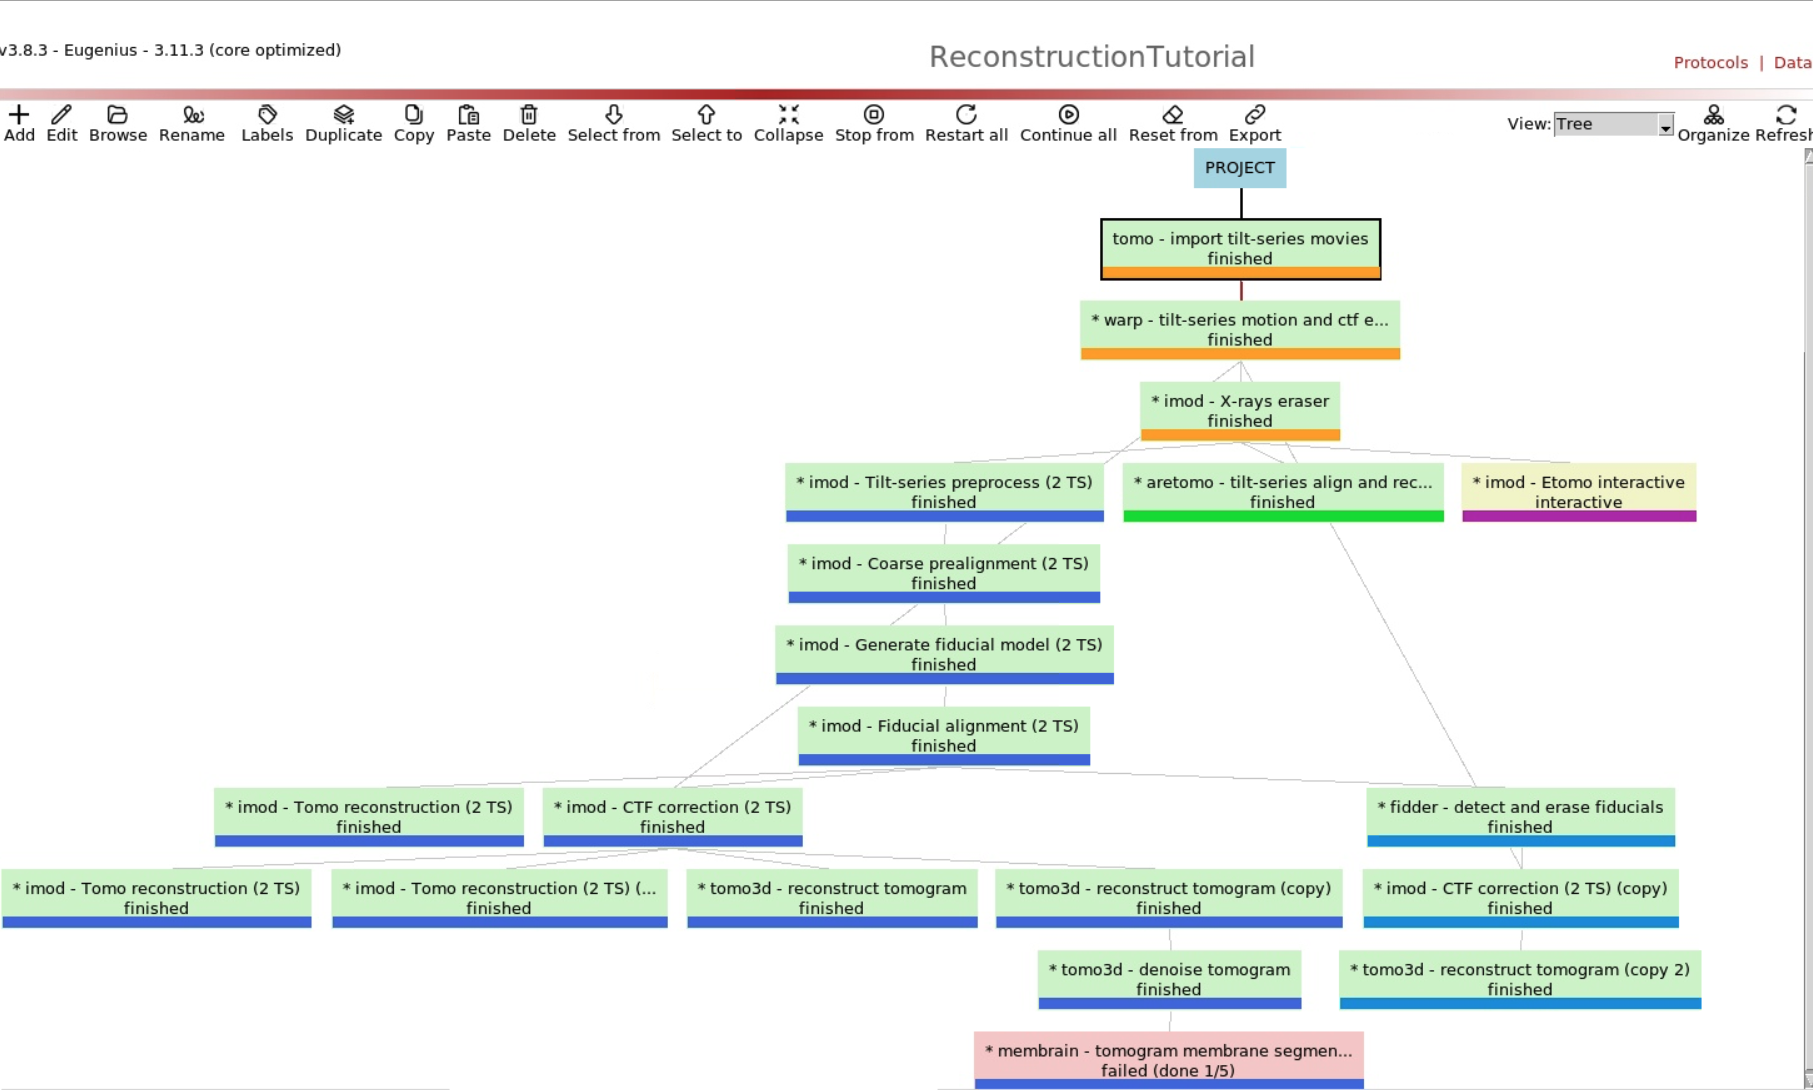
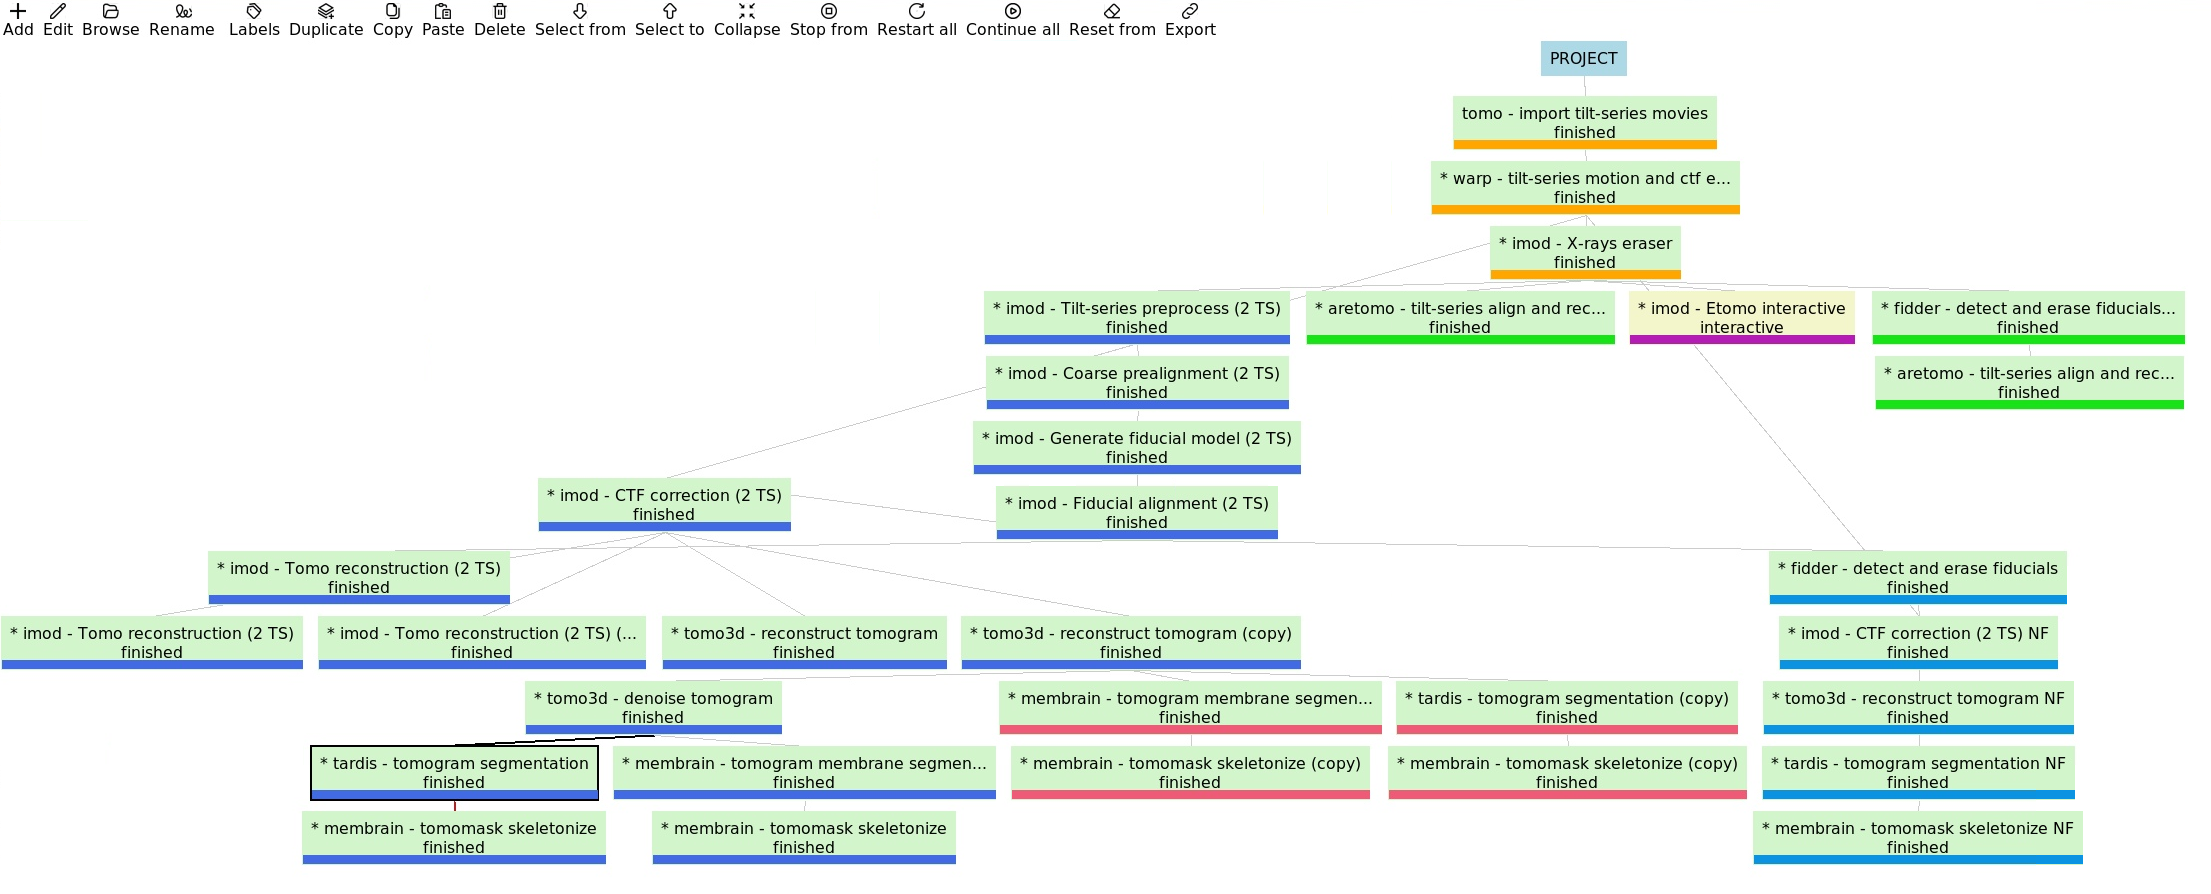
new figures

diff --git a/Dataset_01_Fiducials_Exosomes/automatic-imod.md b/Dataset_01_Fiducials_Exosomes/automatic-imod.md
@@ -2,7 +2,7 @@
 **Part II - Quick assessment: Automated Tilt Series Alignment and Tomogram reconstruction using IMOD**
 
 **CryoEM Team** 🔵 **Scipion Team** 
-Last update: 11 February 2026, 22:00
+Last update: 04 February 2026, 19:32
 
 **keywords:** ["cryo-ET", "Scipion", "IMOD", "Etomo", "AreTomo", "reconstruction"]
 
@@ -14,6 +14,14 @@ Last update: 11 February 2026, 22:00
 - **warp – tilt-series motion and ctf estimation** finished
 - **imod – x-ray eraser** finished, hot pixels removed
 - **tomoviewer – tilt series curation** finished & 2/5 tilt series selected
+
+Now we connect the pre-processing to tilt-series alignment and tomogram reconstruction. We will start with the blue track.
+<table>
+<tr>
+<td align="center">
+<img src="Figures/0-Workflow.png" width="100%"<br>
+<sub>Workflow covered in this tutorial</sub>
+</td>
 
 ## 🔵 The IMOD workflow
 
@@ -330,7 +338,7 @@ For this tutorial, keep all parameters at their default values.
   </tr>
 </table>
 
-## Final tomogram reconstruction with tomo3D
+## 🔴 Final tomogram reconstruction with tomo3D
 
 **Reference**: [J.I. Agulleiro 2011](https://doi.org/10.1093/bioinformatics/btq692)[J.I. Agulleiro 2015](https://doi.org/10.1016/j.jsb.2014.11.009)
 **Plugin**: [scipion-em-tomo3d](https://github.com/scipion-em/scipion-em-tomo3d)
@@ -393,7 +401,7 @@ The reconstructed volume can be inspected via **Analyze results**. Alternatively
   </tr>
 </table>
 
-## Tomogram denoising with Tomo3D (for a segmentation friendly volume)
+## 🔴 Tomogram denoising with Tomo3D (for a segmentation friendly volume)
 
 For segmentation, a reconstructed tomogram is often still very noisy. Applying denoising can improve the visibility of membranes and cellular features and can make manual or ML-based segmentation more robust.
 
@@ -429,7 +437,7 @@ Look for artifacts: ringing, over-smoothing, patchy textures, hallucinated conti
 
 > **Note:** Denoising alters image statistics. Use it for **visualization and segmentation**, but keep a **minimally processed reference tomogram** for quantitative workflows (e.g., STA).
 
-## Tomogram filtering in IMOD (optional)
+## 🔵 Tomogram filtering in IMOD (optional)
 
 In addition to denoising, simple filters that can further improve interpretability for **visual inspection** and **segmentation** (e.g., emphasizing membranes or suppressing high-frequency noise). Filtering is optional and should be used conservatively.
 
@@ -440,13 +448,21 @@ In addition to denoising, simple filters that can further improve interpretabili
 
 > **Legacy:** For a step-by-step example in IMOD, see the separate protocol by **Clara Feldmann**, which documents the filter settings (**filter type + parameters**) used in our workflow: [legacy/filtering.pdf](legacy/filtering.pdf)
 
-## Tomogram Segmentation
-We have different options for Segmentation, e.g. Dynamo, Tardis or Membrain. In Scipion we will use Tardis and Membrain as example tools.
+## 🔴 Tomogram Segmentation
+Segmentation turns a tomogram into a label volume (mask) that can be used for quality check, quantification, and downstream analysis. In this tutorial we show two example workflows in Scipion:
+* Tardis: membrane segmentation (fast, robust starting point)
+* Membrain: membrane segmentation with a different model/behavior (useful for comparison / sometimes cleaner membranes)
 
-### Tardis Segmentation + Membrain Skeletonize
-Goal: You start with denoised tomograms and end with: (1) SetOfTomoMasks: one 3D segmentation mask per tomogram and (2) Set of Meshes: 3D surface models derived from the masks (great for visualization)
+From either segmentation mask we can generate surface meshes using MembrainSkeletonize (great for figures and 3D visualization).
+> Rule of thumb: quantify on `masks`, make figures with `meshes`.
 
-> Rule of thumb:** quantify on **masks**, make figures with **meshes**.
+### Workflow A: Tardis Segmentation (+ Membrain Skeletonize)
+**Your input**
+Input: denoised tomograms
+Target here: membranes only (binary segmentation)
+
+**Create the Mask**
+Output: SetOfTomoMasks (one 3D mask per tomogram), usually binary: 0 = background, 1 = membrane
 
 <table>
   <tr>
@@ -475,29 +491,73 @@ Goal: You start with denoised tomograms and end with: (1) SetOfTomoMasks: one 3D
   </tr>
 </table>
 
-**Output 1 `SetOfTomoMasks` (1 per tomogram):**  
-A **3D label volume** aligned to each tomogram (same grid/size ideally).  
-- one mask corresponds to one tomogram
-- binary mask where each voxel has value 0/1: `0=background`, `1=target` (or multi-class integers)  
-- used for: overlay QC + measurements + downstream processing
+**Convert the Mask into a SetOfMeshes**
+Meshes are surface models derived from masks; meshes are used for: 3D visualization + figure rendering + qualitative inspection
+To create the mesh, we run MembrainSkeletonize.
 
-**Output 2 `Set of Meshes`:**  --> this cannot be visualized from Tardis. We run Membrain Skeletonize to get the Mesh.
-**Surface models** generated from the masks (triangulated geometry, e.g. `.ply/.obj/.stl`, tool-dependent).  
-- used for: 3D visualization/figures + surface metrics
-
-## Visualization in ChimeraX
-### Let's open the segmentation
+### Visualization of the Mesh in ChimeraX
+1. Open the segmentation as shown in the video.
 <img src="Movies/17-VisualizeSegInChimeraX.gif" width="95%">
 
-# Upcoming Next
-## Overlay the segmentation with the tomogram
-## How Segmentation looks like when you do not use denoising
+2. Overlay the segmentation with the tomogram in ChimeraX
+(note: overlay does currently not work properly)
 
-# New Page
-## A few tricks to improve your results?
-Let's go through a few cosmetic steps now that you could add to your workflow.
+3. Assess the quality of your mesh
+- Does the mesh hug the membrane location (not offset)?
+- Do you see holes / spikes / “shrink-wrapping” artifacts?
+- Mesh density: too dense = heavy files; too sparse = blocky surfaces
+- Do you have to much noise?
 
-### Fidder - detects and erases fiducials
+### Workflow B: Membrain + Membrain Skeletonize
+It’s good practice to try a second method for comparison / sanity check. Since we are segmenting membranes, we will use Membrain as an alternative model to Tardis.
+
+> In some datasets Membrain yields smoother / more continuous membrane masks than Tardis. Always verify by overlay QC.
+
+**Create the mask**
+Input: Input: denoised tomograms
+Output: SetOfTomoMasks (same concept as above, membrain also produces a mask per tomogram)
+
+Here the output is binary, we can proceed directly to skeletonize/mesh generation
+convert mask → mesh for ChimeraX/figures.
+
+### Quick comparison: Tardis vs Membrain
+Tardis: often fast + solid baseline segmentation for membranes; good first pass.
+Membrain: sometimes produces smoother / more continuous membrane masks; good alternative when Tardis struggles.
+Best practice: run both on 1–2 tomograms, compare overlays, then decide what you’ll use for the whole dataset.
+
+<table width="100%">
+  <tr>
+    <td align="center" width="50%">
+      <img src="Figures/18-Membrain_Denoised.png" width="95%"><br>
+      <sub>Membrain (denoised)</sub>
+    </td>
+    <td align="center" width="50%">
+      <img src="Figures/18-Tardis_Denoise.png" width="95%"><br>
+      <sub>Tardis (denoised)</sub>
+    </td>
+  </tr>
+</table>
+
+
+
+# A few thoughts:
+## 🪼 Why denoising is important (even if this example looks similar)
+<img src="Figures/14_Denoise_orNotDenoise_Workflow.png" width="95%">
+Below we compare Membrain segmentation on (A) a raw tomogram vs. (B) the denoised version.
+In this high-contrast example, you may think: Ha! There is barely a difference!
+That can happen when membranes are already very clear and SNR is decent.
+So why denoise at all? Because in many cellular tomograms denoising can make a big difference by:
+Stabilizing segmentation in low-SNR regions (thin membranes, crowded cytoplasm)
+Reducing false positives from noise, ice contamination, fringes, or reconstruction artifacts
+Improving continuity of membrane masks (fewer breaks → nicer meshes)
+Reducing parameter sensitivity (thresholds/model confidence become less “twitchy”)
+Rule of thumb:
+If you need to fight the segmentation parameters a lot, denoising usually helps (or you need a different model).
+We’ll revisit this with true cellular samples in the next tutorial, where the effect is typically much more obvious.
+
+
+## Can I get rid of the Fiducials
+### 🪼 Fidder - detects and erases fiducials
 
 **Reference**: [TeamTomo](https://github.com/teamtomo/fidder)
 **Plugin**: [scipion-em-fidder](https://github.com/scipion-em/scipion-em-fidder)
@@ -505,16 +565,93 @@ Let's go through a few cosmetic steps now that you could add to your workflow.
 Fiducials markers were used to tilt series, due to their high contrast. However, the strong signal of the gold beads can introduce artifacts in the reconstruction. Specially, the artifacts can complicate the tomogram interpretation and introduce errors in the use of image processing algorithms as: Picking and sutomogram averaging. These effects can be avoided by erasingthe fiducial markers in the images. To do that the protocol `fidder - detect and erase fiducials` can be used. Fidder uses a U-net (deep learning) trained at 8A/px to segment the fiducials. In a second step, the segmented fiducial markers are substituted with white noise matching the local mean and global standard deviation of the image. Fidder only presents a free parameter, the threshold, which aims to determine probability threshold for deteting the gold beads. An strict value of 0.9 should work with this data set. The figures
 
 ** When to do it?**
+It is possible to get rid of fiducials early and late in the workflow. In our pipeline, we do it after `imod - fiducial alignment` has finished, just before the first reconstruction.
+<img src="Figures/Fidder_1_Workflow1.png" width="50%">
+<sub>Removing Fiducials prior to reconstruction</sub>
 
 To execute the protocol the next paramaters are used:
 - *Input:*
   - **Tilt series**: `imod - Fiducial alignment`
   - **Threshold**: 0.9
+<table>
+  <tr>
+    <th align="center" colspan="2">
+      Input (Fidder): aligned tilt series + threshold
+    </th>
+  </tr>
+  <tr>
+    <td align="center" colspan="2">
+      <img src="Figures/Fidder.png" width="60%"><br>
+      <sub>Input parameters for Fidder</sub>
+    </td>
+  </tr>
 
-<img src="Figures/Fidder.png" width="50%">
-<sub>Input parameters for Fidder</sub>
+  <tr>
+    <th align="center">Output 1 – Tilt series after fiducials are erased</th>
+    <th align="center">Output 2 – Tomogram reconstructed from the erased tilt series</th>
+  </tr>
+  <tr>
+    <td align="center" width="50%">
+      <img src="Movies/Fidder_onAlignedTS.gif" width="95%"><br>
+      <sub>Aligned tilt series (fiducials removed)</sub>
+    </td>
+    <td align="center" width="50%">
+      <img src="Movies/Fidder_Tomo3D.gif" width="95%"><br>
+      <sub>Tomogram after reconstruction</sub>
+    </td>
+  </tr>
+</table>
 
-### Cropping the final reconstruction
-### Perfectionate Tomogram Positioning
-### Using AreTomo on Fiducial-less samples (the real ones!)
+
+Of course now, the segmentation will also skip fiducials and the final mesh will look better! Try yourself.
+
+### Cropping the final reconstruction & Perfectionate Tomogram Positioning
+<img src="Figures/tomogram_positioning_panels.png" width="95%">
+<sub>A simple figure illustrating tomogram positioning relative to the tilt axis and beam direction.</sub>
+
+## 🟢 Aretomo - tilt series align and reconstruct in one step
+**Reference**: [S. Zheng 2022](https://doi.org/10.1016/j.yjsbx.2022.100068)
+**Plugin**: [scipion-em-aretomo](https://github.com/scipion-em/scipion-em-aretomo)
+
+Use the Scipion protocol `aretomo - tilt series align and reconstruct` to perform alignment and reconstruction in a single run, right after tilt-series curation. 
+
+### Parameters used
+
+
+AreTomo supports two reconstruction methods:
+- WBP (Weighted Back Projection)
+- SART (Simultaneous Algebraic Reconstruction Technique)
+
+> Tip: WBP is faster, but SART typically gives higher contrast. For cellular environments and template-matching / subtomogram picking, SART is recommended.
+
+The outputs are:
+- aligned tilt series
+- reconstructed tomogram
+- optional: CTF estimation (if enabled)
+
+<table width="100%">
+  <tr>
+    <td align="center" colspan="2">
+      <img src="Figures/20-aretomoForm.png" width="100%"><br>
+      <sub>Input parameters</sub>
+    </td>
+  </tr>
+  <tr>
+    <td align="center" width="50%">
+      <img src="Movies/20-aretomoWithFiducials.gif" width="100%"><br>
+      <sub>Reconstruction with fiducials</sub>
+    </td>
+    <td align="center" width="50%">
+      <img src="Movies/20-AretomoNoFiducials.gif" width="100%"><br>
+      <sub>Reconstruction without fiducials (10-slice average)</sub>
+    </td>
+  </tr>
+</table>
+
+> **Tip:** You are done here for an overview/quality-check tomogram; if you want to move on to template matching or subtomogram averaging (STA), estimate the CTF and continue with a CTF-aware workflow (CTF correction + final reconstruction / CTF modeling in STA).
+
+More background on AreTomo: aretomo.md (upcoming)
+
+
+
 
